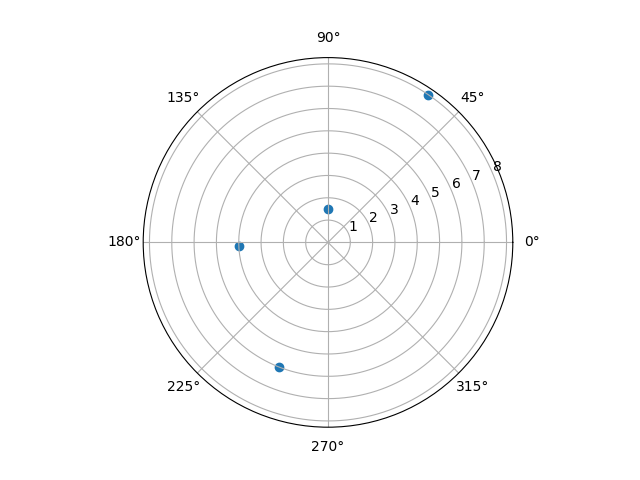
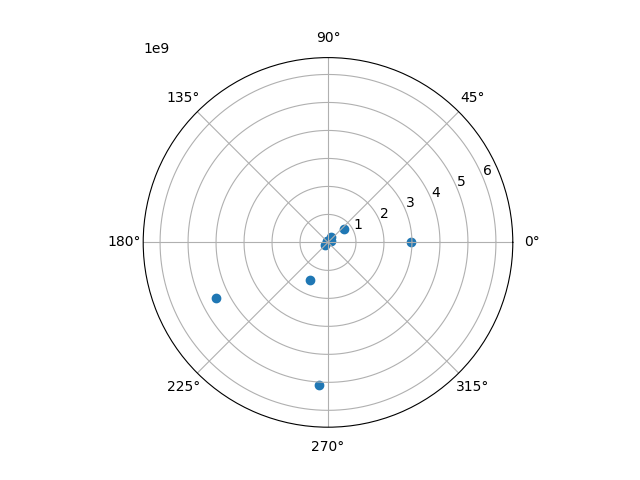
WIP: cleaned up  for readability

diff --git a/planetary_positions/get_planet_positions.py b/planetary_positions/get_planet_positions.py
@@ -1,17 +1,16 @@
 # Brian Castro 2019
 
 from astroquery.jplhorizons import Horizons
-import numpy as np
 
 # AstroQuery library info
 # github: https://github.com/astropy/astroquery
 # docs: https://astroquery.readthedocs.io/en/latest/jplhorizons/jplhorizons.html
 
-epochs = {'start':'2020-08-30', 'stop':'2020-09-07','step':'1d'}
-location = '@sun' #center of the sun
+EPOCHS = {'start':'2020-08-30', 'stop':'2020-09-07','step':'1d'}
+LOCATION = '@sun' #center of the sun
 
 # Each planet can be referred to by System Gravitational Barycenter or planetary center, number specifies planetary center
-planets = [
+PLANETS = [
     '199', # Mercury
     '299', # Venus
     '399', # Earth
@@ -23,53 +22,23 @@ planets = [
     '999', # Pluto (like it or not, a planet according to JPL HORIZONS)
 ]
 
-minor_planets = [
+MINOR_PLANETS = [
     'Ceres',
 ]
 
 def get_planetary_positions(target,type='majorbody'):
-    planet_pos_data = Horizons(id=target, id_type=type, location=location, epochs=epochs)
+    '''
+    Gets ephemerides data (planetary positions) using JPL Horizons program for given planet at predefined times
+    '''
+    planet_pos_data = Horizons(id=target, id_type=type, location=LOCATION, epochs=EPOCHS)
     eph = planet_pos_data.ephemerides()
     eph['r'].convert_unit_to('km')
     return eph['targetname','datetime_str','EclLon','EclLat','r']
 
-# for planet in planets:
-#     print("\n",get_planetary_positions(planet))
-
-# for planet in minor_planets:
-#     print("\n",get_planetary_positions(planet,"smallbody"))
-
-def format_planets():
-    planetary_coords = []
-
-    for planet in planets:
-        positions_table = get_planetary_positions(planet)
-        # print(type(planet_pos))
-        # print(planet_pos.colnames)
-        # print(planet_pos.columns)
-        # print(planet_pos[0])
-        data = np.array(positions_table)
-        # print data
-
-        planetary_coords.append(data[0]) # pos of each planet at time 0
-
-    return planetary_coords
-
-
-    # for planet in minor_planets:
-    #     planet_pos = get_planetary_positions(planet,"smallbody")
-
-def get_coords():
-    data = format_planets() # call each separetly?
-    planet_pos_reduced = [(pos[4], pos[2]) for pos in data]
-    theta = [rad[1] for rad in planet_pos_reduced]
-    r = [ang[0] for ang in planet_pos_reduced]
-
-    return (r, theta)
-
 if __name__ == "__main__":
-    data = format_planets() # call each separetly?
-    r, theta = data[4], data[2]
+    for planet in PLANETS:
+        print("")
+        print(get_planetary_positions(planet))
 
 # Future features
 #   Pretty print/file output

diff --git a/planetary_positions/plot_planet_positions.py b/planetary_positions/plot_planet_positions.py
@@ -1,20 +1,16 @@
 import numpy as np
 import matplotlib.pyplot as plt
 
-print("test")
+def debug_pp(r,theta):
+
+    for i in xrange(0,len(r)):
+        print theta[i], "\t", r[i]
+
 
 def generate_plot(r,theta):
+    # r, theta = [1.5,4.,6.,8.,11.], [33.,110.,130.,290.,340.]
 
-
-    r, theta = [1.5,4,6,8,11], [33,110,130,290,340]
-    # Compute areas and colors
-    # N = 5
-    # r = 2 * np.random.rand(N)
-    # theta = 2 * np.pi * np.random.rand(N)
-    print(r, theta)
-    # area = 61736162 * r**2 #5103339081 pluto
-    # colors = thetaxs
-
+    debug_pp(r, theta)
     fig = plt.figure()
     ax = fig.add_subplot(111, projection='polar')
     # ax = plt.polar()
@@ -22,24 +18,4 @@ def generate_plot(r,theta):
     # plt.savefig("solarsys.png")
     plt.savefig("test.png")
 
-    # plt.show()
-
-
-
-    #     # Fixing random state for reproducibility
-    # np.random.seed(19680801)
-
-    # # Compute areas and colors
-    # N = 5
-    # r = 2 * np.random.rand(N)
-    # theta = 2 * np.pi * np.random.rand(N)
-    # print(r, theta)
-    # area = 200 * r**2
-    # colors = theta
-
-    # fig = plt.figure()
-    # ax = fig.add_subplot(111, projection='polar')
-    # c = ax.scatter(theta, r, c=colors, s=area, cmap='hsv', alpha=0.75)
-    # plt.savefig("test.png")
-
-    # plt.show()
+    plt.show()

diff --git a/planetary_positions/planetary_positions.py b/planetary_positions/planetary_positions.py
@@ -1,5 +1,34 @@
-from get_planet_positions import get_planetary_positions, get_coords
+from get_planet_positions import get_planetary_positions, PLANETS
 from plot_planet_positions import generate_plot
+import numpy as np
 
-r, theta = get_coords()
-generate_plot(r, theta)
+def format_planets(planets_data):
+    '''
+    Takes planet data and returns it formatted for... ?
+    '''
+    pass
+
+def get_all_planet_pos():
+    planet_data = []
+
+    for planet in PLANETS:
+        positions_table = get_planetary_positions(planet)
+        data = np.array(positions_table)
+        planet_data.append(data[0]) # pos of each planet at time 0
+    return planet_data
+
+
+def get_coords():
+    '''
+    gets planet positions for each solar system object
+    '''
+    planet_data = get_all_planet_pos()
+    planet_data_reduced = [(pos[4], pos[2]) for pos in planet_data]
+    theta = [rad[1] for rad in planet_data_reduced]
+    r = [ang[0] for ang in planet_data_reduced]
+
+    return (r, theta)
+
+if __name__ == "__main__":
+    r, theta = get_coords()
+    generate_plot(r, theta)
